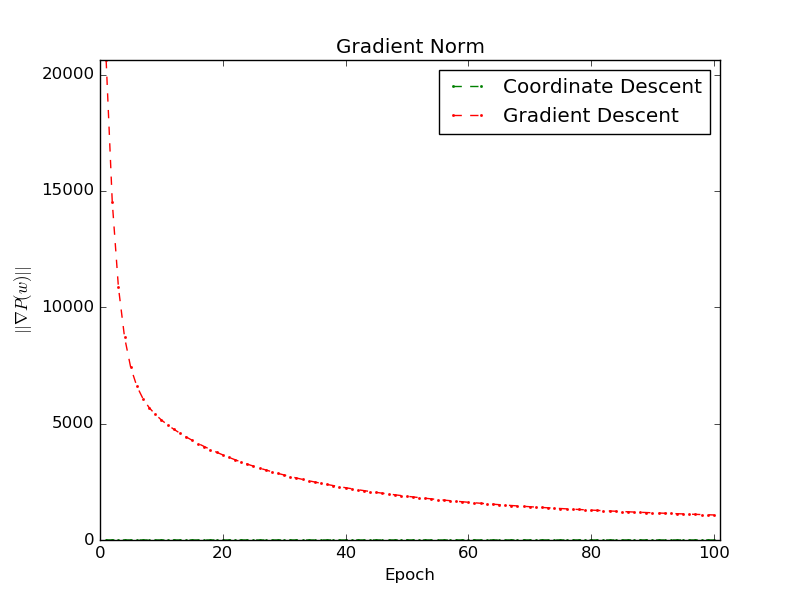
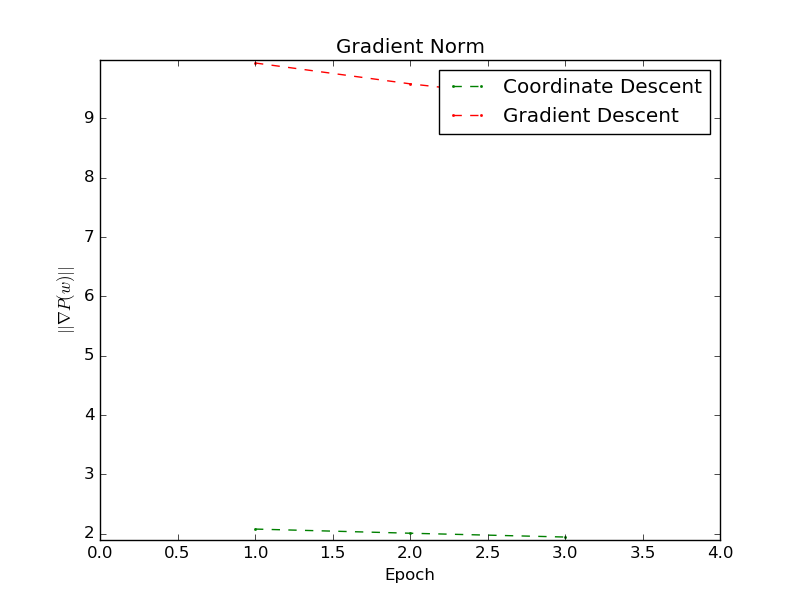
added log scale

diff --git a/run.py b/run.py
@@ -14,7 +14,7 @@ def plot_error(epls, cdls, gdls):
     gd_line, = pl.plot(epls, gdls, color="red", marker='.', ls="--", ms=3)
 
     pl.xlim(0.0, epls[-1]+1.0)
-    pl.ylim(min([min(cdls), min(gdls)])-0.05, max([max(cdls), max(gdls)])+0.05)
+    pl.ylim(min([min(cdls), min(gdls)])-0.5, max([max(cdls), max(gdls)])+0.5)
     pl.xlabel(r"Epoch")
     pl.ylabel(r"Error Rate")
     pl.title(r"Test Error")
@@ -29,7 +29,7 @@ def plot_gra_norm(epls, cdls, gdls):
     gd_line, = pl.plot(epls, gdls, color="red", marker='.', ls="--", ms=3)
 
     pl.xlim(0.0, epls[-1]+1.0)
-    pl.ylim(min([min(cdls), min(gdls)])-0.05, max([max(cdls), max(gdls)])+0.05)
+    pl.ylim(min([min(cdls), min(gdls)])-0.5, max([max(cdls), max(gdls)])+0.5)
     pl.xlabel(r"Epoch")
     pl.ylabel(r"$||\nabla P(w)||$")
     pl.title(r"Gradient Norm")
@@ -75,7 +75,7 @@ def primal_gradient_descent(Xtrain, Ytrain, Xtest, Ytest, lr=0.25, lmbd=1, epoch
         error_on_test = 1 - metrics.accuracy_score(Ytest, Predtest)
         test_error_ls.append(error_on_test)
         # print LA.norm(classifier.accumulated_gradients, 2)
-        grad_norm_ls.append(LA.norm(classifier.accumulated_gradients, 2))
+        grad_norm_ls.append(np.log(LA.norm(classifier.accumulated_gradients, 2)))
 
         print "\nError on train: %0.4f, Error on test: %0.4f\n" %(error_on_train, error_on_test)
 
@@ -105,7 +105,7 @@ def dual_coordinate_descent(Xtrain, Ytrain, Xtest, Ytest, epoches=100):
         error_on_test = 1 - metrics.accuracy_score(Ytest, Predtest)
         test_error_ls.append(error_on_test)
         # print LA.norm(classifier.accumulated_gradients, 2)
-        grad_norm_ls.append(LA.norm(classifier.accumulated_gradients, 2))
+        grad_norm_ls.append(np.log(LA.norm(classifier.accumulated_gradients, 2)))
 
         print "\nError on train: %0.4f, Error on test: %0.4f\n" %(error_on_train, error_on_test)
 
@@ -118,7 +118,7 @@ def main():
     Xtrain, Ytrain = read_data("./data/a9a.train")
     Xtest, Ytest = read_data("./data/a9a.test")
     # problem = sys.argv[1]
-    EPOCHES = 3
+    EPOCHES = 100
 
     #if problem == 'primal':
     gd_norm_ls, gd_error_ls = primal_gradient_descent(Xtrain, Ytrain, Xtest, Ytest, lr=0.25, lmbd=1, epoches=EPOCHES)
